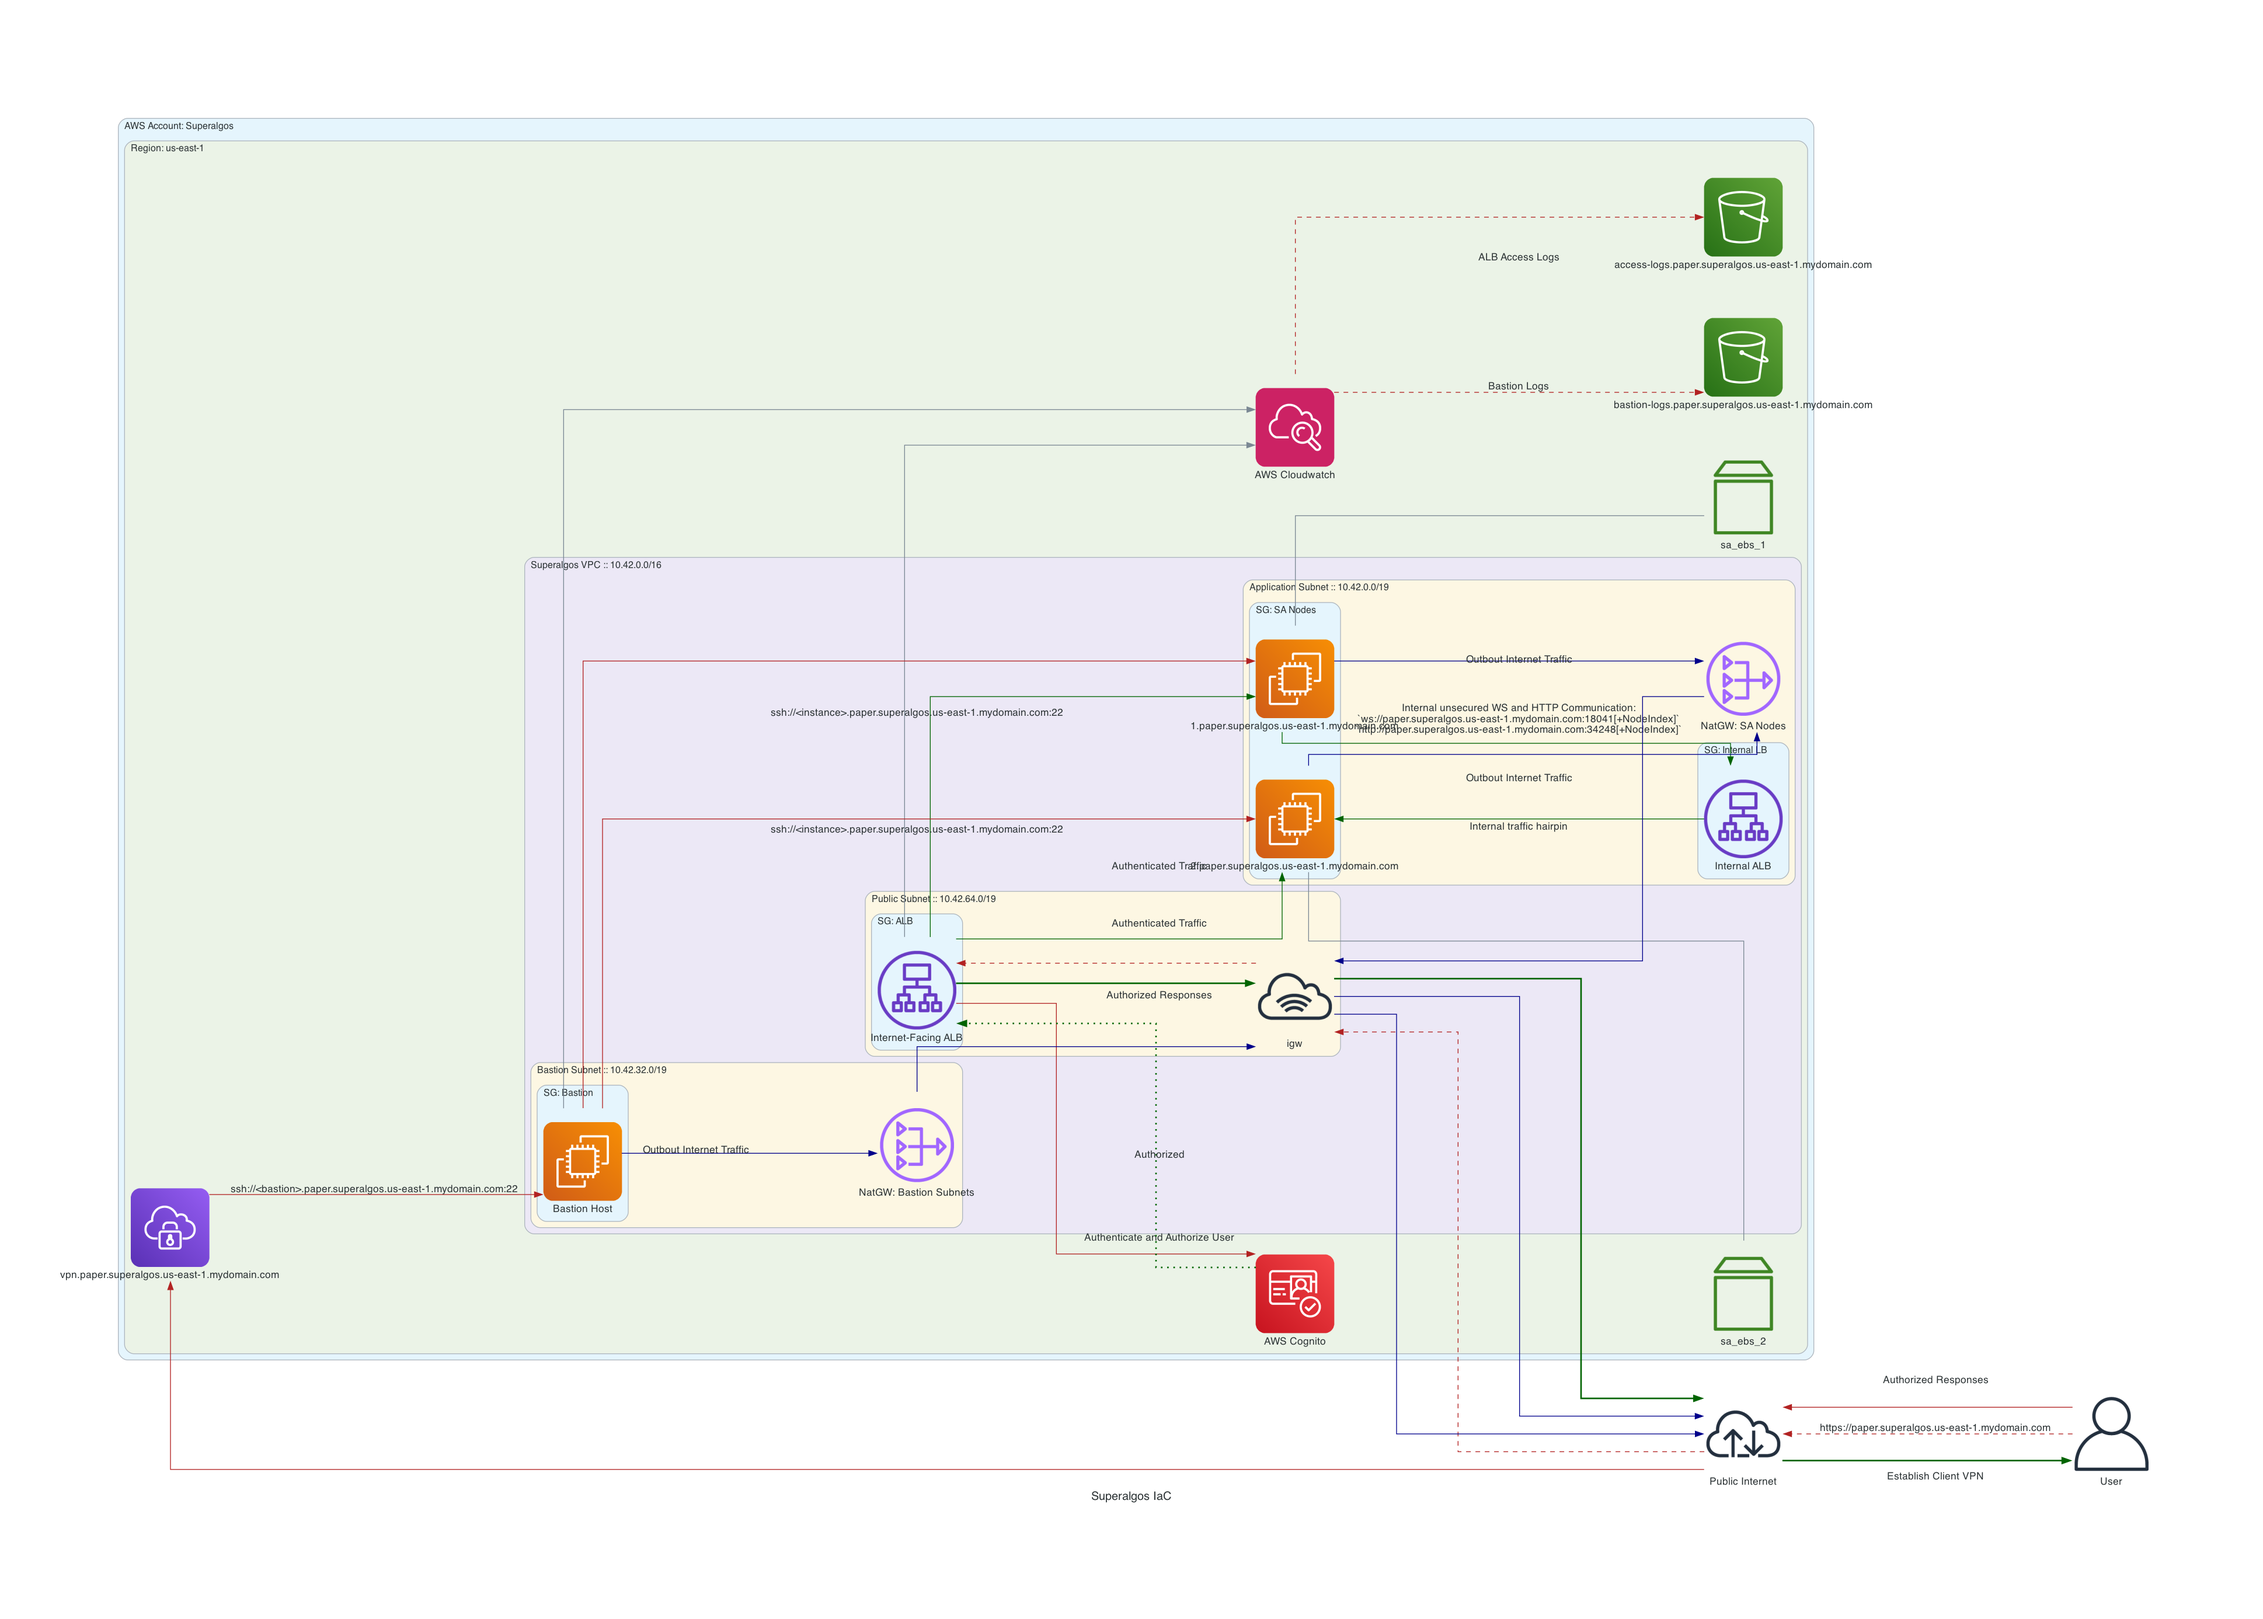
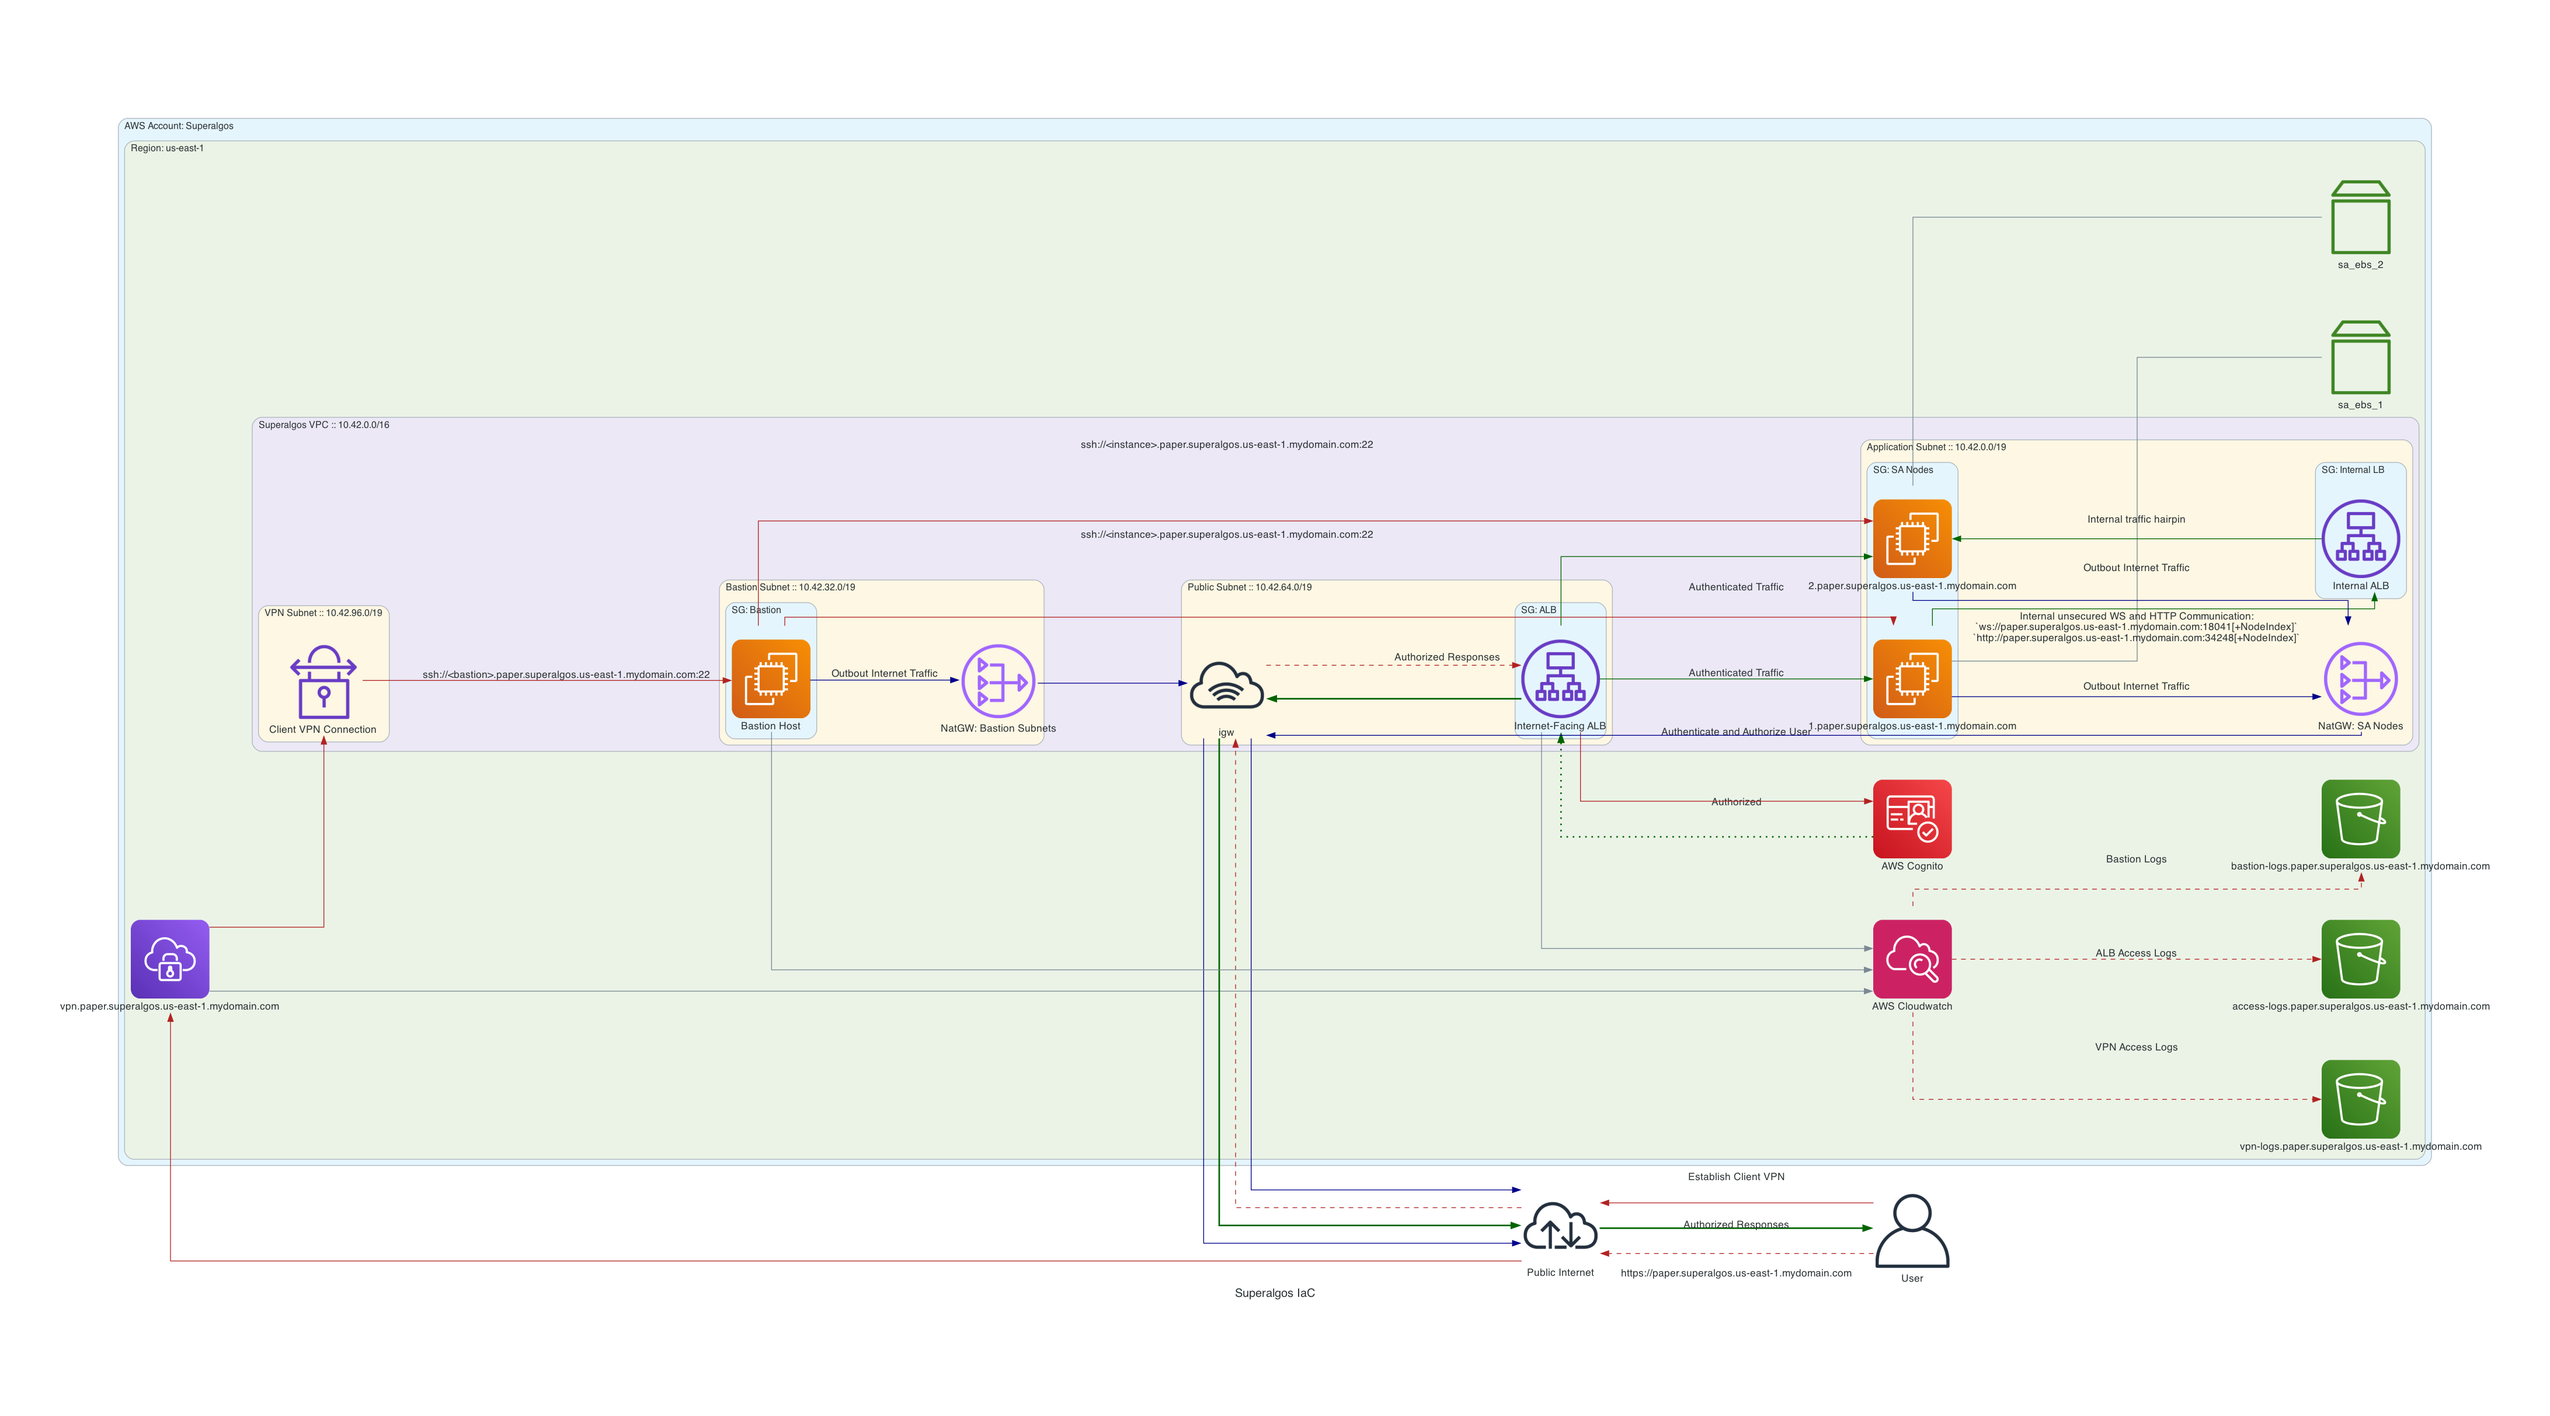
working on breaking out different traffic flows

diff --git a/scripts/diagram.py b/scripts/diagram.py
@@ -7,7 +7,7 @@ from diagrams import Cluster, Diagram, Edge
 from diagrams.aws.compute import EC2
 from diagrams.aws.general import InternetGateway
 from diagrams.aws.management import AutoScaling, Cloudwatch
-from diagrams.aws.network import ALB, ClientVpn, NATGateway
+from diagrams.aws.network import ALB, ClientVpn, NATGateway, VpnConnection
 from diagrams.aws.security import Cognito
 from diagrams.aws.storage  import ElasticBlockStoreEBSVolume, S3
 from diagrams.onprem.client import User
@@ -131,6 +131,65 @@ def solidRed(label="", color="firebrick", style="solid"):
 
 
 
+#
+
+def infrastructure(elements, region, fqdn):
+    elements["aws_account_cluster"] = Cluster(f"AWS Account: {aws_account_alias}")
+    elements["internet"] = Internet("Public Internet")
+    elements["user"] = User("User")
+
+    with elements["aws_account_cluster"]:
+        elements["region"] = Cluster(f"Region: {region}")
+        with elements["region"]:
+            elements["cloud_watch"] = Cloudwatch("AWS Cloudwatch")
+            elements["cognito"] = Cognito("AWS Cognito")
+            elements["s3_access"] = S3(f"access-logs.{fqdn}")
+            elements["s3_bastion"] = S3(f"bastion-logs.{fqdn}")
+            elements["s3_vpnlogs"] = S3(f"vpn-logs.{fqdn}")
+            elements["vpn_endpoint"] = ClientVpn(f"{vpn_subdomain}.{fqdn}")
+            elements["vpc_sa"] = Cluster(f"Superalgos VPC :: {vpc_cidr}")
+            #
+            with elements["vpc_sa"]:
+                elements["subnet_application"] = Cluster(f"Application Subnet :: {application_subnet_cidr}")
+                elements["subnet_bastion"] = Cluster(f"Bastion Subnet :: {bastion_subnet_cidr}")
+                elements["subnet_public"] = Cluster(f"Public Subnet :: {public_subnet_cidr}")
+                elements["subnet_vpn"] = Cluster(f"VPN Subnet :: {vpn_subnet_cidr}")
+                # Public Subnet Objectes
+                with elements["subnet_public"]:
+                    elements["igw"] = InternetGateway("igw")
+                    elements["sg_alb"] = Cluster("SG: ALB")
+                    with elements["sg_alb"]:
+                        elements["external_lb"] = ALB("Internet-Facing ALB")
+                # Bastion Subnet Object
+                with elements["subnet_bastion"]:
+                    elements["ngw_bastion"] = NATGateway("NatGW: Bastion Subnets")
+                    elements["sg_bastion"] = Cluster("SG: Bastion")
+                    with elements["sg_bastion"]:
+                        elements["bastion"] = EC2("Bastion Host")
+                # Application Subnet Object
+                with elements["subnet_application"]:
+                    elements["ngw_sa_nodes"] = NATGateway("NatGW: SA Nodes")
+                    elements["sg_sa_nodes"] = Cluster("SG: SA Nodes")
+                    elements["sg_internal_lb"] = Cluster("SG: Internal LB")
+                    # SG: Internal LB Object
+                    with elements["sg_internal_lb"]:
+                        elements["internal_lb"] = ALB("Internal ALB")
+                    # SG: SA Nodes Object
+                    with elements["sg_sa_nodes"]:
+                        elements["app_instances"] = [
+                            saInstance(f"{i.get('idx')}.{fqdn}")
+                            for i in sa_instance_mapping
+                        ]
+                # VPN Subnet Object
+                with elements["subnet_vpn"]:
+                    elements["vpn_connection"] = VpnConnection("Client VPN Connection")
+            # Add connections from each SA Node to an EBS Volume
+            for idx, i in enumerate(sa_instance_mapping):
+                elements["app_instances"][idx] - ElasticBlockStoreEBSVolume(f"sa_ebs_{i.get('idx')}")
+
+#
+
+
 def makeDiagrams(out_dir: str = '.'):
     for environment, region in zip(environments, regions):
         # The fully qualified domain name that will be appended
@@ -138,74 +197,37 @@ def makeDiagrams(out_dir: str = '.'):
         # ################
         # Overview Diagram
         # ################
-        with Diagram("Superalgos IaC", filename=f"{out_dir}/diagram-{environment}-{region}", outformat="png"):
-            internet = Internet("Public Internet")
-            user = User("User")
-            #
-            with Cluster(f"AWS Account: {aws_account_alias}"):
-                    with Cluster(f"Region: {region}"):
-                        cloud_watch = Cloudwatch("AWS Cloudwatch")
-                        cognito = Cognito("AWS Cognito")
-                        s3_access = S3(f"access-logs.{fqdn}")
-                        s3_bastion = S3(f"bastion-logs.{fqdn}")
-                        vpn_endpoint = ClientVpn(f"{vpn_subdomain}.{fqdn}")
-                        #
-                        with Cluster(f"Superalgos VPC :: {vpc_cidr}"):
-                            subnet_application = Cluster(f"Application Subnet :: {application_subnet_cidr}")
-                            subnet_bastion = Cluster(f"Bastion Subnet :: {bastion_subnet_cidr}")
-                            subnet_public = Cluster(f"Public Subnet :: {public_subnet_cidr}")
+        with Diagram("Superalgos IaC", filename=f"{out_dir}/diagram-authentication-{environment}-{region}", outformat="png", show=False):
+            elements = {}
+            infrastructure(elements=elements, region=region, fqdn=fqdn)
+            # User -> Application traffic flow
+            elements["user"] >> dashedRed(f"https://{fqdn}") >> elements["internet"] >> dashedRed() >> elements["igw"] >> dashedRed() >> elements["external_lb"]
+            elements["external_lb"] >> solidRed("Authenticate and Authorize User") >> elements["cognito"] 
+            elements["cognito"] >> dottedGreen("Authorized") >> elements["external_lb"]
+            elements["external_lb"] >> boldGreen("Authorized Responses") >> elements["igw"] >> boldGreen() >> elements["internet"] >> boldGreen("Authorized Responses") >> elements["user"]
+            elements["external_lb"] >> solidGreen("Authenticated Traffic") >> elements["app_instances"]
+            # Application Internal Traffic Routing
+            elements["app_instances"][0] >> solidGreen(f"Internal unsecured WS and HTTP Communication:\n`ws://{fqdn}:{sa_ws_port}[+NodeIndex]`\n`http://{fqdn}:{sa_app_port}[+NodeIndex]`") >> elements["internal_lb"]
+            elements["internal_lb"] >> solidGreen(f"Internal traffic hairpin") >> elements["app_instances"][-1]
+    
+    with Diagram("Superalgos IaC - Management Traffic", filename=f"{out_dir}/diagram-{environment}-{region}-management", outformat="png", show=False):
+            elements = {}
+            infrastructure(elements=elements, region=region, fqdn=fqdn)
+            # User -> SSH Managment traffic flow
+            elements["user"] >> solidRed(f"Establish Client VPN") >> elements["internet"] >> solidRed() >> elements["vpn_endpoint"] >> solidRed() >> elements["vpn_connection"]
+            elements["vpn_connection"] >> solidRed(f"ssh://<bastion>.{fqdn}:{ssh_port}") >> elements["bastion"]
+            elements["bastion"] >> solidRed(f"ssh://<instance>.{fqdn}:{ssh_port}") >> elements["app_instances"]
+            # Application egress for updates
+            elements["app_instances"] >> solidBlue("Outbout Internet Traffic") >> elements["ngw_sa_nodes"] >> solidBlue() >> elements["igw"] >> solidBlue() >> elements["internet"]
+            elements["bastion"] >> solidBlue("Outbout Internet Traffic") >> elements["ngw_bastion"] >> solidBlue() >> elements["igw"] >> solidBlue() >> elements["internet"]
+            # Bastion Access Logs
+            elements["bastion"] >> elements["cloud_watch"] >> dashedRed("Bastion Logs") >> elements["s3_bastion"]
+            # External Loadbalancer Access Logs
+            elements["external_lb"] >> elements["cloud_watch"] >> dashedRed("ALB Access Logs") >> elements["s3_access"]
+            # VPN Access Logs
+            elements["vpn_endpoint"] >> elements["cloud_watch"] >> dashedRed("VPN Access Logs") >> elements["s3_vpnlogs"]
 
-                            with subnet_public:
-                                igw = InternetGateway("igw")
-                                sg_alb = Cluster("SG: ALB")
-                                with sg_alb:
-                                    external_lb = ALB("Internet-Facing ALB")
-                                    external_lb >> cloud_watch >> dashedRed("ALB Access Logs") >> s3_access
-                                    
-                            #
-                            with subnet_bastion:
-                                ngw_bastion = NATGateway("NatGW: Bastion Subnets")
-                                sg_bastion = Cluster("SG: Bastion")
-                                with sg_bastion:
-                                    bastion = EC2("Bastion Host")
-                                    bastion >> cloud_watch >> dashedRed("Bastion Logs") >> s3_bastion
-                            #
-                            with subnet_application:
-                                ngw_sa_nodes = NATGateway("NatGW: SA Nodes")
-                                sg_sa_nodes = Cluster("SG: SA Nodes")
-                                sg_internal_lb = Cluster("SG: Internal LB")
 
-                                with sg_internal_lb:
-                                    internal_lb = ALB("Internal ALB")
-
-                                with sg_sa_nodes:
-                                    app_instances = [
-                                        saInstance(f"{i.get('idx')}.{fqdn}")
-                                        for i in sa_instance_mapping
-                                    ]
-                                    # app_instances - app_ebs_volumes
-                                
-                                app_instances[0] >> solidGreen(f"Internal unsecured WS and HTTP Communication:\n`ws://{fqdn}:{sa_ws_port}[+NodeIndex]`\n`http://{fqdn}:{sa_app_port}[+NodeIndex]`") >> internal_lb
-                                internal_lb >> solidGreen(f"Internal traffic hairpin") >> app_instances[-1]
-                        #
-                        for idx, i in enumerate(sa_instance_mapping):
-                            app_instances[idx] - ElasticBlockStoreEBSVolume(f"sa_ebs_{i.get('idx')}")
-            #
-            user >> dashedRed(f"https://{fqdn}") >> internet >> dashedRed() >> igw >> dashedRed() >> external_lb
-
-            external_lb >> solidRed("Authenticate and Authorize User") >> cognito 
-            cognito >> dottedGreen("Authorized") >> external_lb
-
-            external_lb >> boldGreen("Authorized Responses") >> igw >> boldGreen() >> internet >> boldGreen("Authorized Responses") >> user
-
-            external_lb >> solidGreen("Authenticated Traffic") >> app_instances
-
-            user >> solidRed(f"Establish Client VPN") >> internet >> solidRed() >> vpn_endpoint
-            vpn_endpoint >> solidRed(f"ssh://<bastion>.{fqdn}:{ssh_port}") >> bastion
-            bastion >> solidRed(f"ssh://<instance>.{fqdn}:{ssh_port}") >> app_instances
-
-            app_instances >> solidBlue("Outbout Internet Traffic") >> ngw_sa_nodes >> solidBlue() >> igw >> solidBlue() >> internet
-            bastion >> solidBlue("Outbout Internet Traffic") >> ngw_bastion >> solidBlue() >> igw >> solidBlue() >> internet
 
 
 
